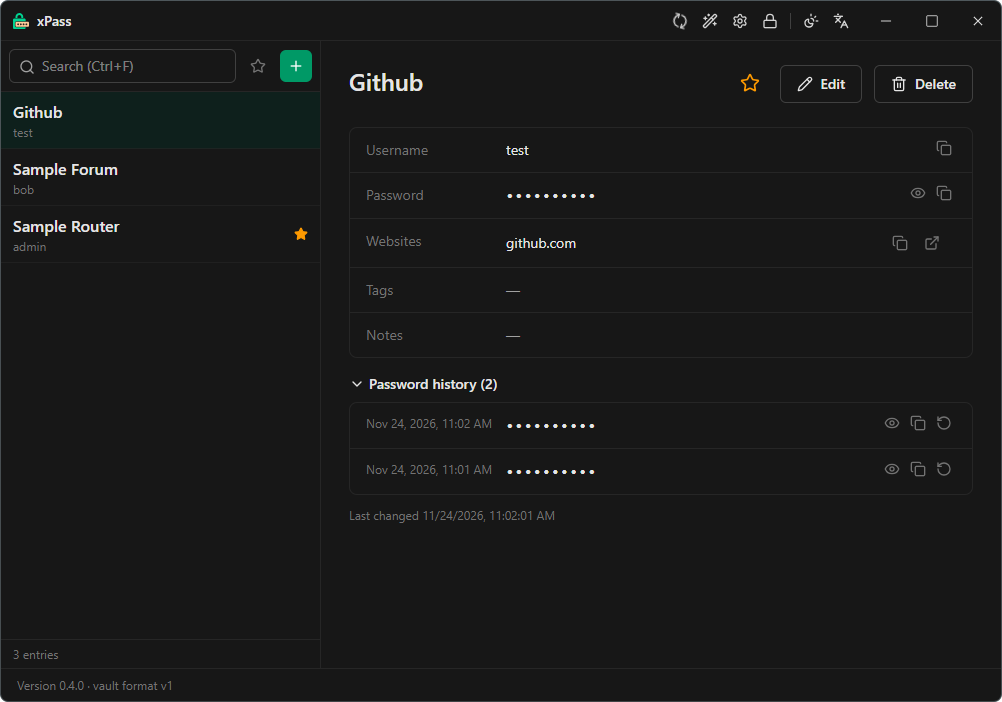
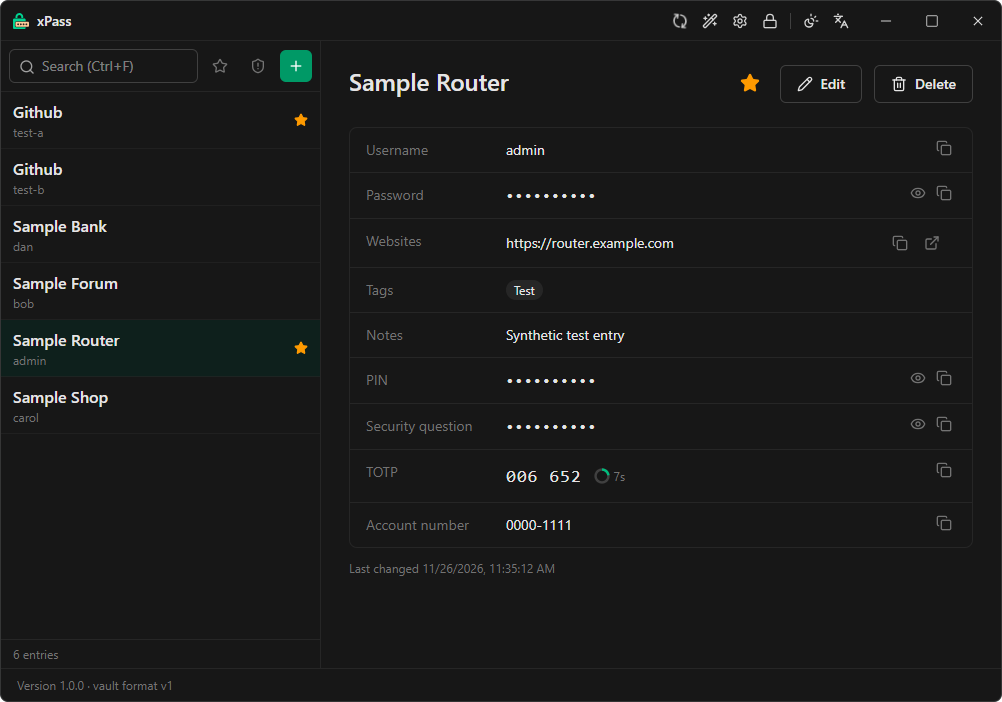
docs: 1.0 screenshots
The screenshots showed v0.5. The new ones show 1.0: an entry with custom
fields and a TOTP code, and the unlock screen with Windows Hello.
Synthetic data only.

diff --git a/README.md b/README.md
@@ -7,7 +7,7 @@ Zero-knowledge personal password manager for Windows, built with Tauri (Rust + R
 > had an independent security review; it rests on its own tests, fuzzing and the self-review in
 > [docs/THREAT_MODEL.md](docs/THREAT_MODEL.md). See [docs/PLAN.md](docs/PLAN.md).
 
-![xPass: entry list and an entry with its password history](docs/screenshots/main.png)
+![xPass: entry list and an entry with custom fields and a TOTP code](docs/screenshots/main.png)
 
 <p align="center">
   <img src="docs/screenshots/unlock.png" alt="xPass unlock screen with Windows Hello and the master password" width="500">
